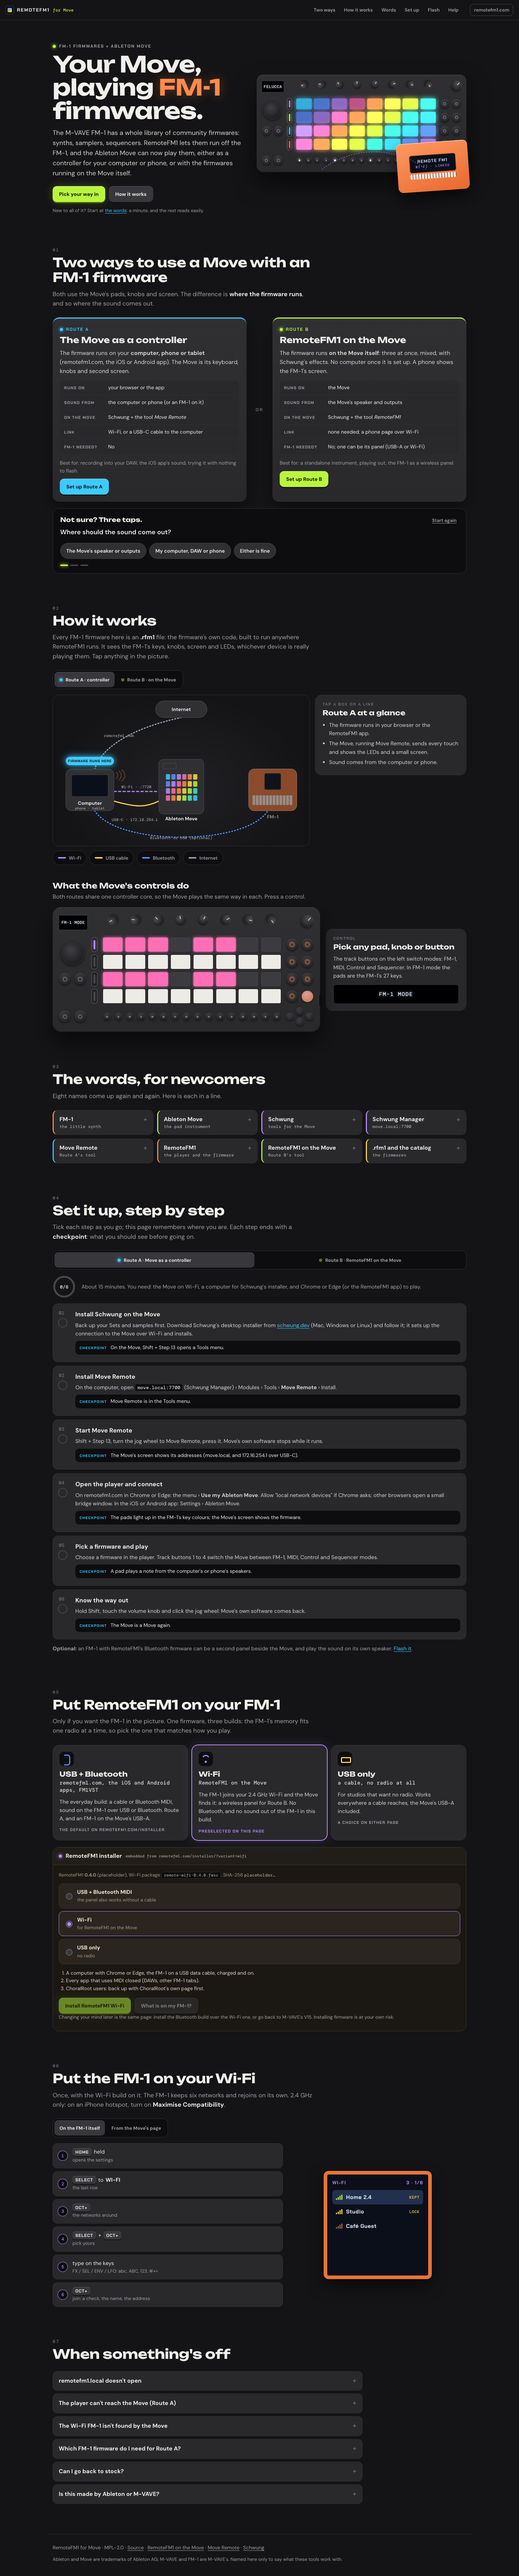
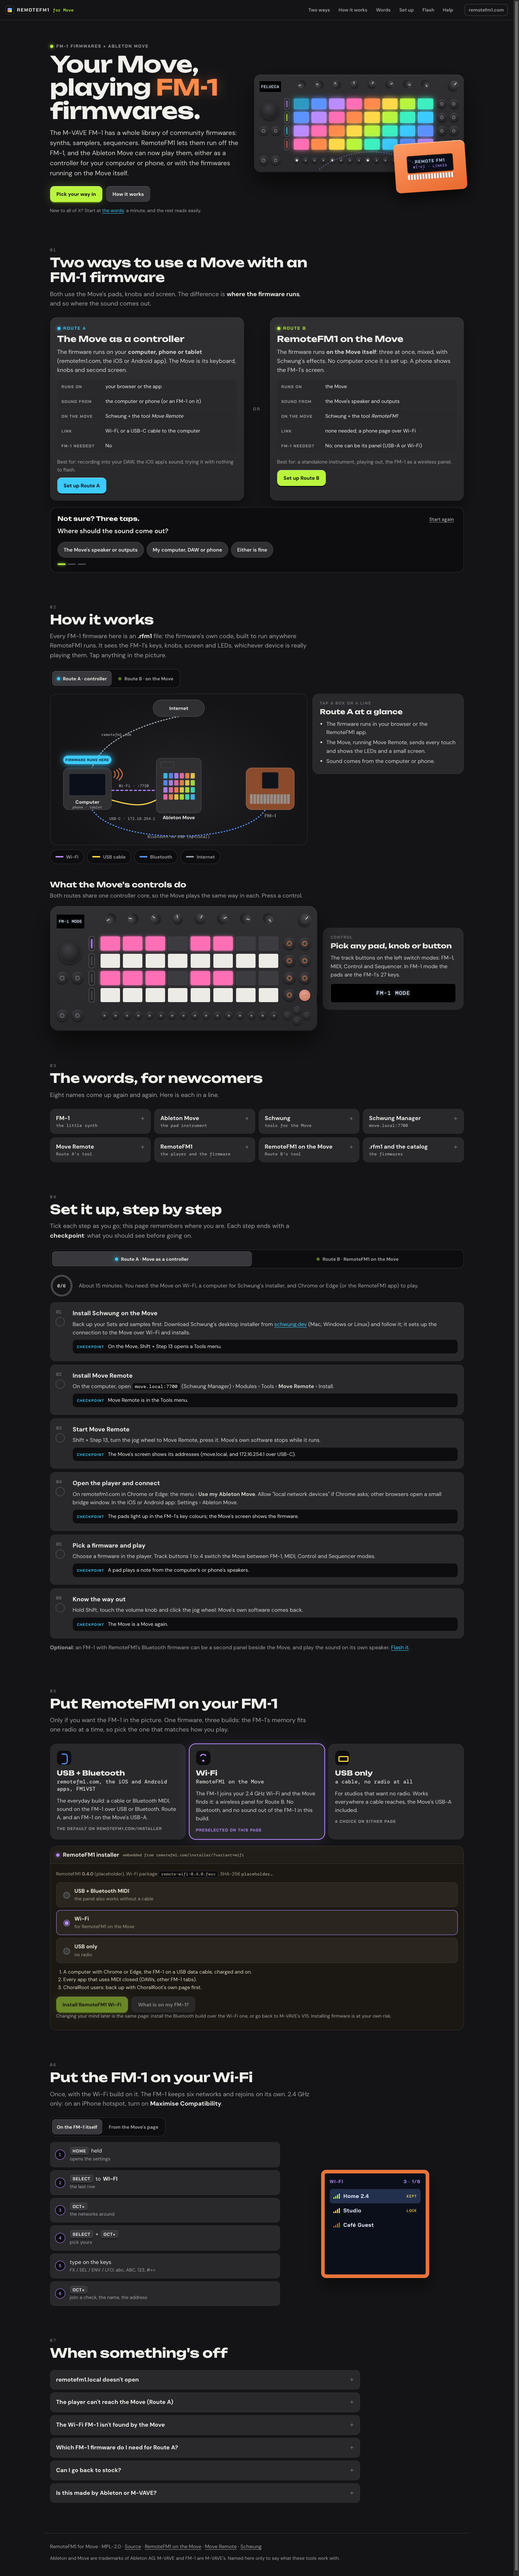
move-site mockup: no coloured strips on the top/left edges of the route and glossary cards (owner); colour stays in dots, badges, buttons and the diagram

diff --git a/design/move-site/mockup/css/move-site.css b/design/move-site/mockup/css/move-site.css
@@ -125,7 +125,7 @@ main { max-width: 1180px; margin: 0 auto; padding: 0 16px; }
 /* ---- the two routes */
 .routes { display: grid; gap: 14px; }
 .route { position: relative; border-radius: var(--r); padding: 22px 20px 20px; background: linear-gradient(180deg, var(--chassis-2), var(--chassis));
-  box-shadow: inset 0 1px 0 #47474c, 0 20px 40px rgba(0, 0, 0, .35); border-top: 3px solid var(--rc); }
+  box-shadow: inset 0 1px 0 #47474c, 0 20px 40px rgba(0, 0, 0, .35); }
 .route-a { --rc: var(--led-a); } .route-b { --rc: var(--led-b); }
 .route-tag { display: flex; align-items: center; gap: 8px; font: 700 12px var(--hw); letter-spacing: .16em; text-transform: uppercase; color: var(--rc); }
 .route-tag .led { --c: var(--rc); }
@@ -216,7 +216,7 @@ main { max-width: 1180px; margin: 0 auto; padding: 0 16px; }
 
 /* ---- glossary */
 .words { display: grid; gap: 10px; }
-.word { border-radius: 14px; background: var(--chassis); border: 1px solid var(--line); border-left: 3px solid var(--c); }
+.word { border-radius: 14px; background: var(--chassis); border: 1px solid var(--line); }
 .word summary { list-style: none; cursor: pointer; padding: 14px 40px 14px 16px; display: grid; gap: 2px; position: relative; }
 .word summary::-webkit-details-marker { display: none; }
 .word summary b { font: 700 16px var(--ui); }
